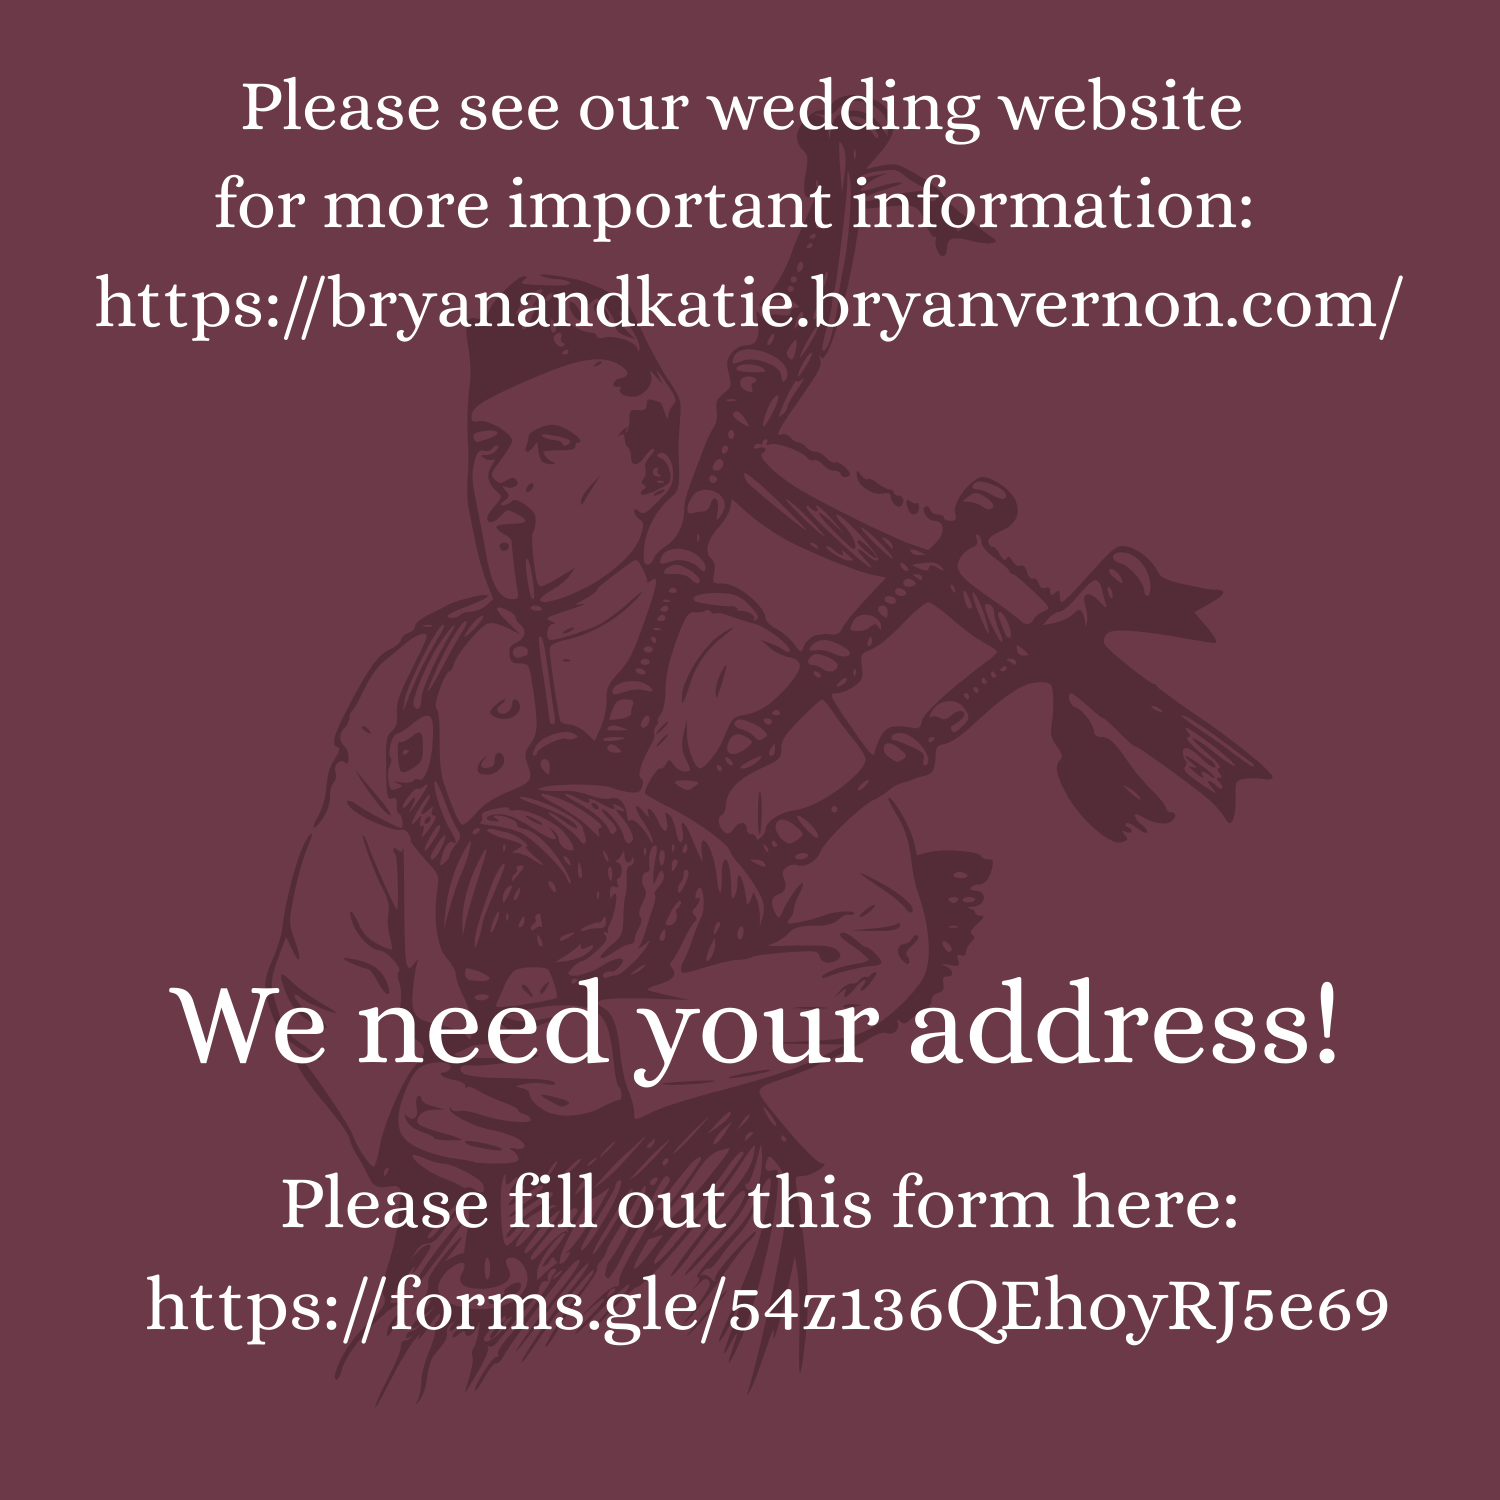
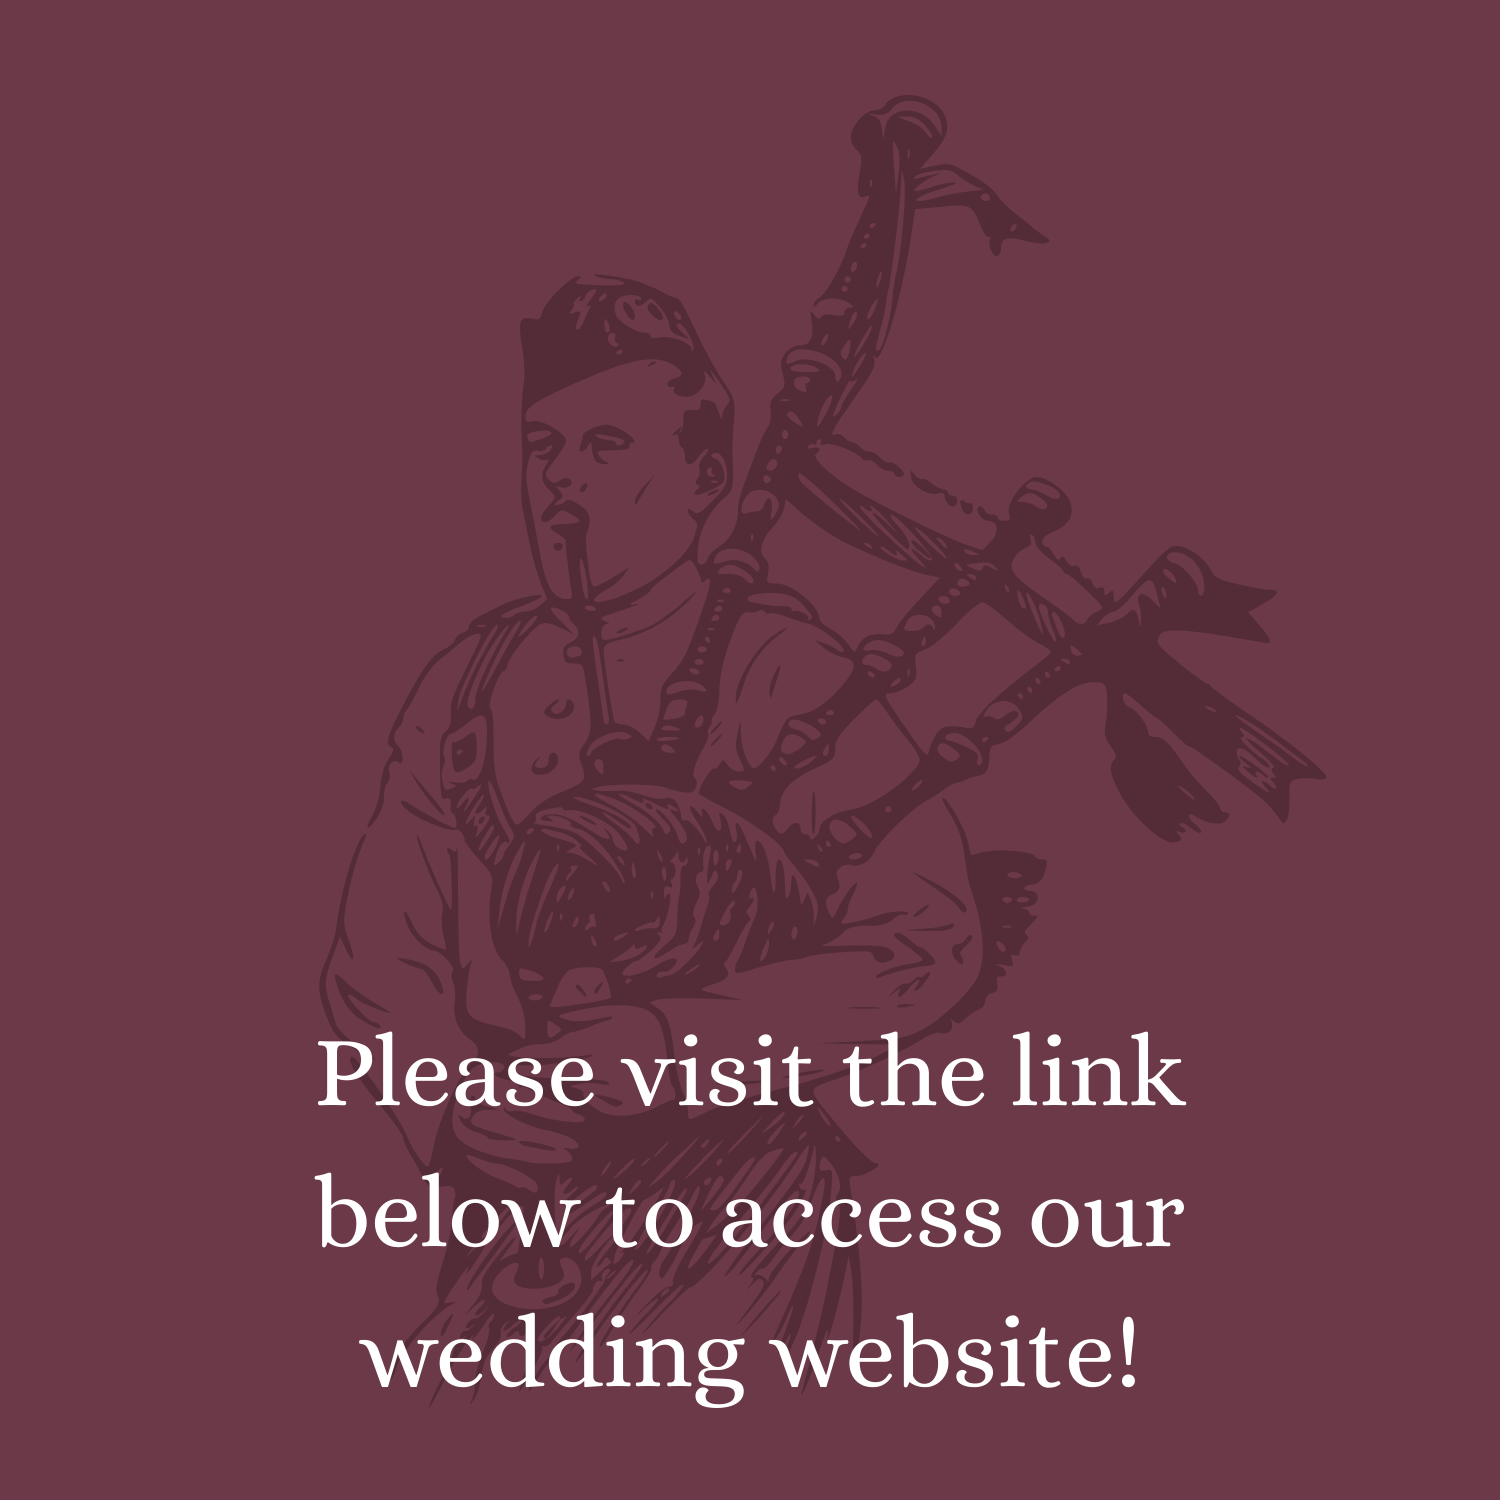
Initial Commit

diff --git a/index.html b/index.html
@@ -47,13 +47,10 @@
             <img src="1.png" alt="Front">
             <img src="2.png" class="back" alt="Back">
         </div>
+        <br>
+        <a href="https://bryanandkatie.bryanvernon.com" target="_blank">
+          https://bryanandkatie.bryanvernon.com
+        </a>
     </div>
-
-    <script>
-        // Optional: Track page view
-        fetch("https://api.countapi.xyz/hit/katieandbryan/save-the-date")
-            .then(response => response.json())
-            .then(data => console.log("Viewed:", data.value));
-    </script>
 </body>
 </html>
